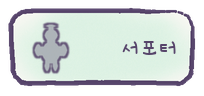
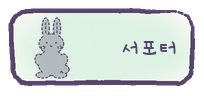
틀 밑그림 생성: 부위를 합친 바깥 윤곽과 무늬를 삐뚤빼뚤한 연필 점선으로 (guide_<id>.png), 틀 고르기 카드 아이콘도 새 생물로

Changed region(s): [[0.1471, 0.1562, 0.3529, 0.8438]]

diff --git a/tools/gen_draw.py b/tools/gen_draw.py
@@ -3,7 +3,8 @@
 - panel: 화면을 덮는 커다란 수채화 종이 판
 - paper: 그림을 그리는 흰 도화지 (가운데 PAPER_W x PAPER_H 가 실제로 칠하는 곳)
 - card / card_on / card_empty: 프리셋(내가 그린 유닛) 카드
-- frame_<id> / frame_<id>_on: 틀 고르기 카드 (틀 실루엣 + 이름)
+- guide_<id>: 종이에 깔리는 틀 밑그림 — 역할별 귀여운 생물(frames.py)을 삐뚤빼뚤한 연필 점선으로
+- frame_<id> / frame_<id>_on: 틀 고르기 카드 (밑그림 + 이름)
 - ink_ring: 고른 잉크 아래 동그라미, eraser: 지우개
 - tab_<all|틀 id> / _on: 내 유닛 화면의 프리셋 나누기 칸 (전체·탱커·근접 딜러·원거리 딜러·서포터)
 - card_del / card_del_confirm: 프리셋 카드 모서리의 지우기 × (한 번 누르면 붉게 → 한 번 더 누르면 지움)
@@ -14,8 +15,10 @@
 import os
 import sys
 
+import math
+
 import numpy as np
-from PIL import Image, ImageFont
+from PIL import Image, ImageDraw, ImageFilter, ImageFont
 
 sys.path.insert(0, os.path.dirname(os.path.abspath(__file__)))
 sys.path.insert(0, os.path.dirname(os.path.dirname(os.path.abspath(__file__))))
@@ -86,15 +89,83 @@ def card(state):
                 line=4.2 if state == 'on' else 3.0, r=14)
 
 
+GUIDE_LINE = (150, 128, 170)
+DASH, GAP = 13.0, 8.0
+
+
+def _resample(points, step=2.0):
+    out = [points[0]]
+    for (x0, y0), (x1, y1) in zip(points, points[1:]):
+        n = max(1, int(math.hypot(x1 - x0, y1 - y0) / step))
+        out += [(x0 + (x1 - x0) * i / n, y0 + (y1 - y0) * i / n) for i in range(1, n + 1)]
+    return out
+
+
+def _dashes(points, keep=None):
+    """선을 점선 조각들로. keep(x, y) 가 False 인 곳은 비운다."""
+    pts = _resample(points)
+    out, cur, run, on = [], [], 0.0, True
+    for i, p in enumerate(pts):
+        if i:
+            run += math.hypot(p[0] - pts[i - 1][0], p[1] - pts[i - 1][1])
+        if on and run > DASH:
+            on, run = False, 0.0
+        elif not on and run > GAP:
+            on, run = True, 0.0
+        if on and (keep is None or keep(*p)):
+            cur.append(p)
+        elif cur:
+            out.append(cur)
+            cur = []
+    if cur:
+        out.append(cur)
+    return [d for d in out if len(d) > 1]
+
+
+def guide(frame, alpha=170, width=3.0, fill_alpha=22, color=GUIDE_LINE):
+    """틀 밑그림: 부위들을 합친 바깥 윤곽 + 무늬를 연필 점선으로, 안은 아주 옅게."""
+    w, h = frames.PAPER_W, frames.PAPER_H
+    sh = Sheet(w, h, seed=1100 + frames.IDS.index(frame['id']))
+    sh.line = color
+    parts = frame['parts']
+    masks = []
+    for part in parts:
+        m = Image.new('L', (w, h), 0)
+        ImageDraw.Draw(m).polygon(frames.outline(part), fill=255)
+        masks.append(np.asarray(m.filter(ImageFilter.MinFilter(5))) > 0)   # 조금 줄인 안쪽
+    union = np.asarray(Image.fromarray(((frames.part_mask(frame['id']) > 0) * 255).astype(np.uint8)))
+    p = Sheet(w, h, seed=1)
+    p.fill_poly([(0, 0), (w, 0), (w, h), (0, h)], color, fill_alpha)
+    sh.masked(p, Image.fromarray(union))
+    for i, part in enumerate(parts):
+        others = [m for j, m in enumerate(masks) if j != i]
+
+        def keep(x, y, others=others):
+            xi, yi = min(w - 1, max(0, int(x))), min(h - 1, max(0, int(y)))
+            return not any(m[yi, xi] for m in others)
+        for d in _dashes(frames.outline(part), keep):
+            sh.stroke(d, width, alpha=alpha, amp=0.4, taper=False)
+    for det in frame['details']:
+        if det[0] == 'dot':
+            _, x, y, r = det
+            sh.fill_poly(ellipse_points(x, y, r, r), color, alpha)
+        else:
+            for d in _dashes(list(det)):
+                sh.stroke(d, width * 0.85, alpha=alpha, amp=0.3, taper=False)
+    return sh.result()
+
+
 def frame_card(frame, on):
     w, h = FRAME_CARD
     tint = {'tank': 'sky', 'melee': 'pink', 'ranged': 'peach', 'support': 'mint'}[frame['id']]
     img = note(w, h, 930 + frames.IDS.index(frame['id']) * 3 + on,
                ((w / 2, h / 2, w / 2, h / 2, PASTEL[tint], 150 if on else 60),), line=4.2 if on else 3.0, r=16)
     # 왼쪽에 작은 틀 실루엣
-    sil = frames.silhouette(frame['id'], (190, 98), color=PLUM, fill_alpha=90 if on else 60, line_alpha=230)
-    icon = Image.fromarray(sil, 'RGBA').crop((28, 0, 166, 98)).resize((76, 54), Image.LANCZOS)
-    img.alpha_composite(icon, (14, (h - 54) // 2))
+    g = guide(frame, alpha=255, width=6.0, fill_alpha=80 if on else 50, color=PLUM)
+    g = g.crop(g.getbbox())
+    k = min(76 / g.width, 62 / g.height)
+    icon = g.resize((round(g.width * k), round(g.height * k)), Image.LANCZOS)
+    img.alpha_composite(icon, (14 + (76 - icon.width) // 2, (h - icon.height) // 2))
     sh = Sheet(w, h, seed=0, ss=1)
     sh.img = img
     sh.ink_text(frame['name'], ImageFont.truetype(os.path.join(pastel.FONTS, pastel.HAND), 24), 150, h / 2,
@@ -165,6 +236,7 @@ def main():
     for state in ('off', 'on', 'empty'):
         save(card(state), {'off': 'card.png', 'on': 'card_on.png', 'empty': 'card_empty.png'}[state])
     for f in frames.FRAMES:
+        save(guide(f), f'guide_{f["id"]}.png')
         for on in (False, True):
             save(frame_card(f, on), f'frame_{f["id"]}{"_on" if on else ""}.png')
     for i, (tid, label, tint) in enumerate(TABS):
